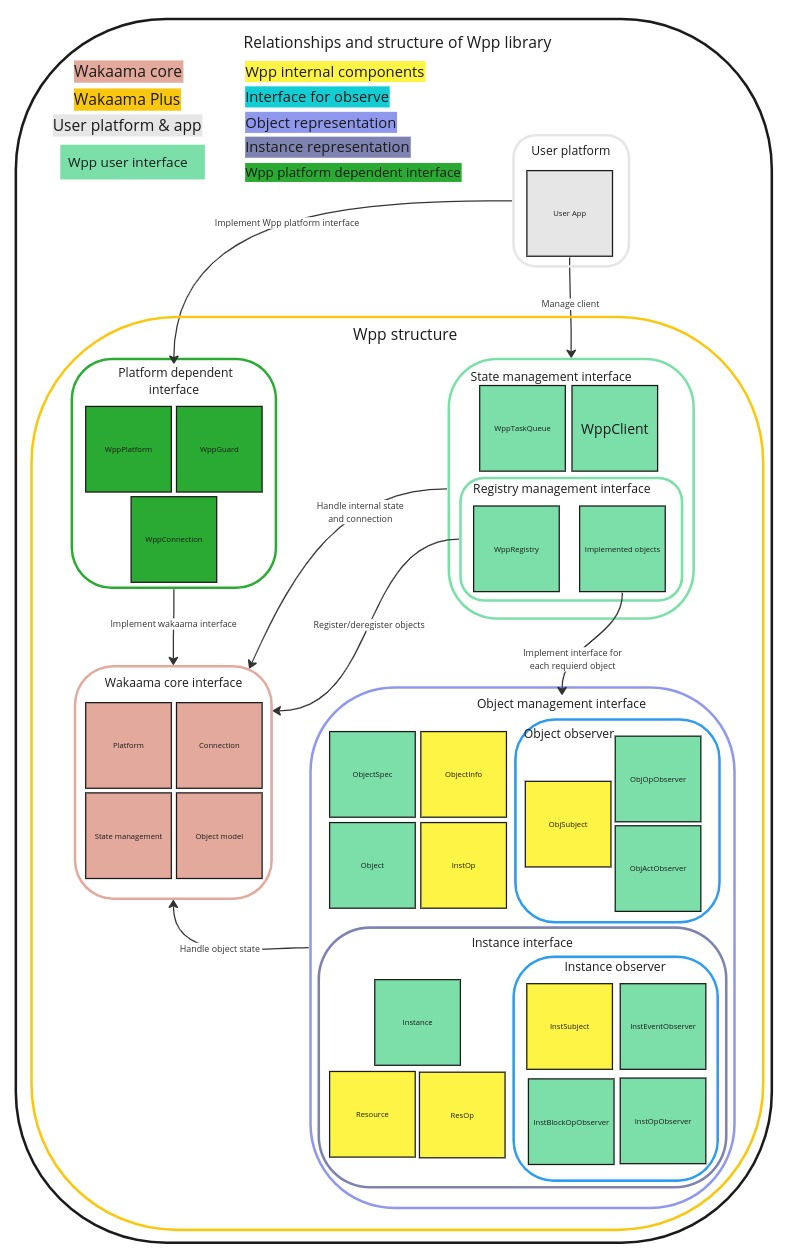
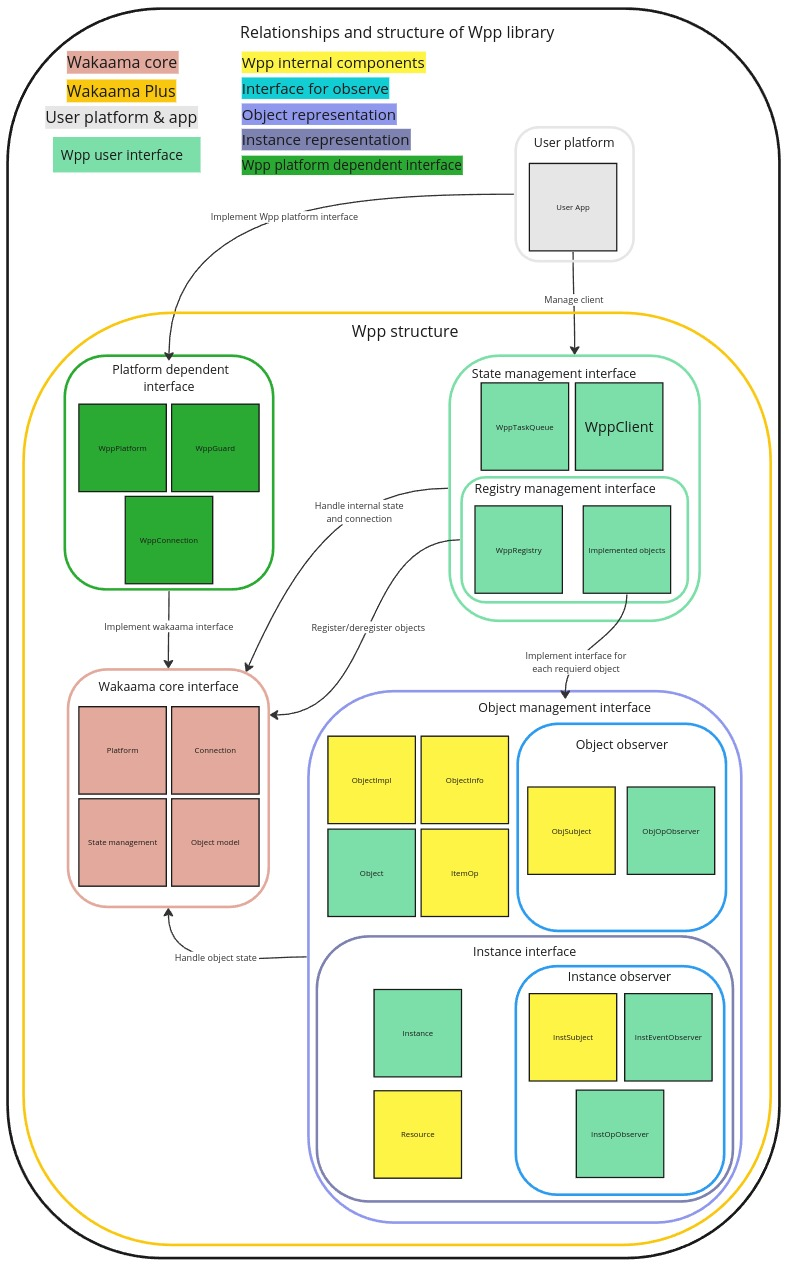
SN-1453 Updated architecture description, regenerated schemes

Changed region(s): [[0.0, 0.0, 1.0, 1.0], [0.4269, 0.4643, 0.4879, 0.5262], [0.305, 0.4952, 0.3355, 0.5262]]

diff --git a/docs/description/architecture.md b/docs/description/architecture.md
@@ -26,7 +26,7 @@ Since **Wpp** is built upon the [**Wakaama**](https://github.com/eclipse/wakaama
 
 1. **State Management (wpp::WppClient)**: This component is responsible for the initialization of the [**Wakaama**](https://github.com/eclipse/wakaama) core, processing protocol states, managing server and object registrations.
    
-2. **Object Model (wpp::Object wpp::ObjectSpec wpp::Instance wpp::Resource)**: This component is at the heart of **Wpp's** architecture. It defines the representation of objects at the **Wpp** level, their structure, general functionality, and sets the interface for interaction with instances and resources of the object, updating [**Wakaama**](https://github.com/eclipse/wakaama) about resource changes made by the user.
+2. **Object Model (wpp::Object wpp::ObjectImpl wpp::Instance wpp::Resource)**: This component is at the heart of **Wpp's** architecture. It defines the representation of objects at the **Wpp** level, their structure, general functionality, and sets the interface for interaction with instances and resources of the object, updating [**Wakaama**](https://github.com/eclipse/wakaama) about resource changes made by the user.
 
 3. **Object Registry (wpp::WppRegistry)**: A crucial component that functions as a registry for available LwM2M objects. It manages the creation and initialization of objects and allows the user to create Instances and manage their resources.
 
@@ -50,7 +50,7 @@ The main interface of the library consists of two main parts:
 - **Object registry management interface.** Which is used by the user to initialize the client, gain access to the object register, and manage objects. It consists from the next interfaces:
   - **State management interface.** Used by the user to initialize the client, get its state, access to registry, and manage registration. It consists from **wpp::WppClient** class which is implemented as singleton, and it is the main entry point through which interaction with the client takes place.
   - **Registry management interface.** Used by the user to gain access to the objects in the registry, register build-in objects, and get their state. It consists from **wpp::WppRegistry** class which is part of **wpp::WppClient**.
-  - **Object management interface.** Used by the user to gain access to the objects state, instances, objects business logic, and internal data. It consists from **wpp::Object**, **wpp::ObjectSpec**, **wpp::Instance** classes, access to **wpp::Object** can be retreived through **wpp::WppRegistry** class.
+  - **Object management interface.** Used by the user to gain access to the objects state, instances, objects business logic, and internal data. It consists from **wpp::Object**, **wpp::ObjectImpl**, **wpp::Instance** classes, access to **wpp::Object** can be retreived through **wpp::WppRegistry** class.
 - **Platform dependent interface.** It is used by the **Wpp** and must be implemented by the user or platform. It includes an interface
 for establishing connection, data transfer, and platform-dependent functionality like: get time, print logs, resource access guard. It consists from the next classes: **wpp::WppConnection**, **wpp::WppPlatform**, **wpp::WppGuard**.
 
@@ -63,7 +63,7 @@ To create a client, the user must call the **wpp::WppClient::create()** method, 
 
 Synchronization of access to the client is provided by the ownership mechanism, the client can be owned by only one program subject at a time, for this purpose a pair of methods **wpp::WppClient::takeOwnership()** and **wpp::WppClient::giveOwnership()** are used. Any actions with the client can be performed only after the **wpp::WppClient::takeOwnership()** method returns a valid object. After completing the manipulations with the client, the owner **must** return control over the client by calling the **wpp::WppClient::giveOwnership()** method. **wpp::WppClient** has two types of methods to take ownership **wpp::WppClient::takeOwnership()** and **wpp::WppClient::takeOwnershipBlocking()**, the first method works without any blocking, if the client is already owned, it returns an empty pointer, but **wpp::WppClient::takeOwnershipBlocking()** works differently, if the client is owned, it blocks its call until the client is released after which takes ownership of the client and returns a valid object.
 
-The second important part of **wpp::WppClient** is **wpp::WppClient::loop()** method for state processing, which when called performs three main tasks: processing packets received from the server, processing tasks from **wpp::WppTaskQueue**, handling the internal state of the [**Wakaama**](https://github.com/eclipse/wakaama) library. After completion, the **wpp::WppClient::loop()** method returns the maximum time in seconds after which the user must call this method the next time. But if after calling **wpp::WppClient::loop()** the user creates a task **wpp::WppTaskQueue** which must be called earlier than the next call to the method **wpp::WppClient::loop()** , then in this case, the **wpp::WppClient::loop()** method must be executed earlier than scheduled for the timely execution of the user request. It should be noted that the time returned after calling **wpp::WppClient::loop()** is the maximum amount of time after which this method should be executed, while the minimum threshold is not set. Therefore, the user can call this method even without delays between calls. It should also be noted that the next call is timed in seconds, so there is no need to call **wpp::WppClient::loop()** more often than once per second, although this is acceptable. It is worth noting that the **wpp::WppClient::loop()** method can be called only after the user takes ownership of **wpp::WppClient**.
+The second important part of **wpp::WppClient** is **wpp::WppClient::loop()** method for state processing, which when called performs three main tasks: processing packets received from the server, processing tasks from **wpp::WppTaskQueue**, handling the internal state of the [**Wakaama**](https://github.com/eclipse/wakaama) library. After completion, the **wpp::WppClient::loop()** method returns the maximum time in seconds after which the user must call this method the next time. But if after calling **wpp::WppClient::loop()** the user creates a task **wpp::WppTaskQueue** which must be called earlier than the next call of the method **wpp::WppClient::loop()** , then in this case, the **wpp::WppClient::loop()** method must be executed earlier than scheduled for the timely execution of the user request. It should be noted that the time returned after calling **wpp::WppClient::loop()** is the maximum amount of time after which this method should be executed, while the minimum threshold is not set. Therefore, the user can call this method even without delays between calls. It should also be noted that the next call is timed in seconds, so there is no need to call **wpp::WppClient::loop()** more often than once per second, although this is acceptable. It is worth noting that the **wpp::WppClient::loop()** method can be called only after the user takes ownership of **wpp::WppClient**.
 
 To access the registry, the client has a method **wpp::WppClient::registry()** that returns a registry object. Other methods and their purpose are described in the [Code](@ref code_tag) section at the following link **wpp::WppClient**.
 
@@ -73,12 +73,12 @@ The **Registry management** interface consists of one class **wpp::WppRegistry**
 
 ### Object Management {#arch_object_management}
 
-The **Object Management** interface consists of four classes **wpp::Object**, **wpp::ObjectSpec**, **wpp::Instance**, **wpp::Resource**, but the user can interact with the interfaces of only three **wpp::Object**, **wpp::ObjectSpec**, **wpp::Instance**. The above classes represent the LwM2M data model of the object, which is described in the documentation [**7.1. Resource Model**](https://openmobilealliance.org/release/LightweightM2M/V1_1_1-20190617-A/OMA-TS-LightweightM2M_Core-V1_1_1-20190617-A.pdf). The general hierarchy is as follows: **LwM2M** has a registry with a description of each object, its resources and business logic [**Object and Resource Registry**](https://technical.openmobilealliance.org/OMNA/LwM2M/LwM2MRegistry.html), but this representation is only in the form of text, not structure and code, therefore **Wpp** has its own representation of the registry in the form of the **wpp::WppRegistry** class, which stores instances of the data model that represents **LwM2M** objects. The mentioned data model contains **wpp::Object**, each object is a container for instances of its type **wpp::Instance**, each instance stores data specific to a certain object, these data are called resources **wpp::Resource**, resources are structures that display fields and object values according to the **LwM2M** description.
+The **Object Management** interface consists of four classes **wpp::Object**, **wpp::ObjectImpl**, **wpp::Instance**, **wpp::Resource**, but the user can interact with the interfaces of only two **wpp::Object**, **wpp::Instance**. The above classes represent the LwM2M data model of the object, which is described in the documentation [**7.1. Resource Model**](https://openmobilealliance.org/release/LightweightM2M/V1_1_1-20190617-A/OMA-TS-LightweightM2M_Core-V1_1_1-20190617-A.pdf). The general hierarchy is as follows: **LwM2M** has a registry with a description of each object, its resources and business logic [**Object and Resource Registry**](https://technical.openmobilealliance.org/OMNA/LwM2M/LwM2MRegistry.html), but this representation is only in the form of text, not structure and code, therefore **Wpp** has its own representation of the registry in the form of the **wpp::WppRegistry** class, which stores instances of the data model that represents **LwM2M** objects. The mentioned data model contains **wpp::Object**, each object is a container for instances of its type **wpp::Instance**, each instance stores data specific to a certain object, these data are called resources **wpp::Resource**, resources are structures that display fields and object values according to the **LwM2M** description.
 
 For a better understanding of the structure, it is worth describing each component separately:
-1. **wpp::Object** is at the top level and defines the interface/behavior for LwM2M objects. Its main task is to manage instances (**wpp::Instance**) of the object and process requests from the server with subsequent transfer of these requests to the corresponding implementation of the object. In fact, **wpp::Object** is a container for instances of the **wpp::Instance** class, it has the following methods to manage instances: **wpp::Object::createInstance()** to create a new instance (class instance **wpp::Instance**) by its **ID**, **wpp::Object::removeInstance()** to remove an instance by its **ID**, **wpp::Object::instance()** to get the corresponding instance by its **ID**. **wpp::Object** also has a **wpp::Object::restore()** method that allows you to restore the initial state of the object, this method generates an event to the user, and the part responsible for servicing the corresponding object on the user's side, decides what initial state the object should have. A detailed description of all other methods can be found at the following link **wpp::Object**. Here it is worth telling how the user knows about the events that happen to the object, because in addition to the recovery event, there are others. Each instance of the **wpp::Object** class stored in the **wpp::WppRegistry** has a built-in monitoring mechanism via the **wpp::ObjSubject** class (**wpp::Object** inherits from **wpp::ObjSubject**), whereby **wpp::Object** receives the following methods **wpp::ObjSubject::opSubscribe()** and **wpp::ObjSubject::actSubscribe()**, these methods are used by the user to observe an object. **wpp::Object** has two types of events: an action request (used in the **wpp::Object::restore()** method), and an operation notification from the server (**wpp::InstOp::TYPE**). For example, if the server wants to create an object instance (**wpp::Instance**), then during this operation, if the user is subscribed to it, an event will be generated that will be sent to the user's observer. Since **wpp::Object** has two types of events, accordingly, the user has two types of observers **wpp::ObjActObserver** and **wpp::ObjOpObserver**, which are interfaces with a set of methods that must be implemented by the user. Each method corresponds to one of the events.
-2. **wpp::ObjectSpec** is a template class that is emulated and implements the required interface of the **wpp::Object** class. By itself, objects of the class **wpp::Object** cannot be created because it is an interface and it does not have all the necessary information about the type of instance it will store. **wpp::ObjectSpec** fully corresponds to the description of **wpp::Object**, the only thing that distinguishes it is the **wpp::Object::createInstance()** method implemented from the **wpp::Object** interface, and two additional methods that allows to create and interact with final implementations of the **wpp::Instance** interface. It should be clarified here that **wpp::Object** and **wpp::Instance** are only interfaces that encapsulate a similar part of the code for all objects and provide the user with a unified access interface, but are not the final implementation of the object or its instance, because in order to be the final implementation of an object, needs to know the exact type of the instance, and for different objects, instances have different implementations and, accordingly, type. That is why there is **wpp::ObjectSpec**, which is a template class, thanks to which it is possible to create instances of a specialized type, and is the final implementation of the **wpp::Object** interface. When **wpp::WppRegistry** initializes its list of objects, it creates instances of exactly **wpp::ObjectSpec** to which it transfers the type of the final implementation of the instance, that is, the type of the class that implements **wpp::Instance**. So we have two interfaces for interacting with the object: generalized (**wpp::Object**) and specialized (**wpp::ObjectSpec**). The specialized interface allows to get an instance of the class that implements **wpp::Instance**, thanks to which possible to get access to special methods of the implementation itself. For more information follow the link **wpp::ObjectSpec**.
-3. **wpp::Instance** this class defines the interface and common behavior for all instances of the LwM2M object. Inheritors of this class are created in **wpp::ObjectSpec**, the type of the inheritor **wpp::Instance** is specified as a template parameter for **wpp::ObjectSpec**. **wpp::Instance** is a container for object resource data [**7.1. Resource Model**](https://openmobilealliance.org/release/LightweightM2M/V1_1_1-20190617-A/OMA-TS-LightweightM2M_Core-V1_1_1-20190617-A.pdf). As it was already indicated, **wpp::Instance** contains a list of all resources (instances of the **wpp::Resource** class) for a specific **LwM2M** object, these resources are its main value because it is thanks to the data which are stored in **wpp::Resource**, the server can control the client and see its state. **wpp::Instance** is the only place to store data for an instance of an object, therefore, accordingly, it has two interfaces: for processing requests from the server and the second for processing requests from the user. Only the user interface will be considered, since it will be used when interacting with **Wpp**. So, the user interface can be divided into two parts, the first part allows to get information about the instance (to which object it belongs, its ID), the second part is methods that allows to set, get and delete the value of a specific resource. To access these resources, the approach of get/set methods is used, in which the ID of the resource to be read or set is transferred. **wpp::Instance** uses two approaches to get and set resource values, with and without copying. Consider in more detail, if you use the **wpp::Instance::set()** or **wpp::Instance::get()** method, an additional copy of the data will be created during the execution of these methods, if it **wpp::Instance::set()**, then one copy will be stored on the user side and another in **wpp::Resource**, the same is the case with **wpp::Instance::get()**. If you use the **wpp::Instance::setMove()** or **wpp::Instance::getPtr()** method, copies will not be created when calling **wpp::Instance::setMove()** user data is moved to **wpp::Resource** without creating a copy, **wpp::Instance::getPtr()** returns a pointer to the same data stored in **wpp::Resource**, but when with this approach, the user cannot change the data itself, because a pointer to constant data is returned. There are two types of resources **SINGLE** and **MULTIPLE**, these types indicate whether the resource can store only one value or more (actually an array of values). If **wpp::Resource** is **MULTIPLE**, **wpp::Instance::clear()** and **wpp::Instance::remove()** methods can be useful, because they allow you to clear an array of values entirely **wpp::Instance::clear()**, or to remove a specific value **wpp::Instance::remove()**. It should be noted here that the **wpp::Instance::clear()** method is dangerous because it violates an important rule, **every declared wpp::Resource in the wpp::Object must have at least one value throughout lifetime regardless of whether the resource is SINGLE or MULTIPLE**, so after calling **wpp::Instance::clear()** the user must set a new value for the resource. The interface and features for **wpp::Instance** have been described, now it is worth describing the method of notifying the user about events and their types. **wpp::Instance** there are two types of events: notifications about operations from the server side (**ResOp::TYPE type**) and event notifications are inherent in the implementation of **wpp::Instance**, their presence and purpose is determined by the implementation itself. The observation approach is the same as for **wpp::Object**, there is a class **wpp::InstSubject** from which **wpp::Instance** is inherited, through inheritance **wpp::Instance** gets two methods that allow the user to subscribe to server operations **wpp::InstSubject::opSubscribe()** and to custom events **wpp::InstSubject::eventSubscribe()**. For observation, the user must implement one of the observer interfaces, **wpp::InstOpObserver** for observing server operations, **wpp::InstEventObserver** for observing custom events **wpp::Instance**.
+1. **wpp::Object** is at the top level and defines the interface/behavior for LwM2M objects. Its main task is to manage instances (**wpp::Instance**) of the object and process requests from the server with subsequent transfer of these requests to the corresponding implementation of the object. In fact, **wpp::Object** is a container for instances of the **wpp::Instance** class, it has the following methods to manage instances: **wpp::Object::createInstance()** to create a new instance (class instance **wpp::Instance**) by its **ID**, **wpp::Object::remove()** to remove an instance by its **ID**, **wpp::Object::instance()** to get the corresponding instance by its **ID**. Each instance of the **wpp::Object** class stored in the **wpp::WppRegistry** has a built-in monitoring mechanism via the **wpp::ObjSubject** class (**wpp::Object** inherits from **wpp::ObjSubject**), whereby **wpp::Object** receives the following method **wpp::ObjSubject::opSubscribe()**, this method is used by the user to observe an object. For example, if the server wants to create an object instance (**wpp::Instance**), then during this operation, if the user is subscribed to it, an event will be generated that will be sent to the user's observer. Since The user has **wpp::ObjOpObserver** observer, which is interfaces with a set of methods that must be implemented by the user. Each method corresponds to one of the events.
+2. **wpp::ObjectImpl** is a template class that is implements the required interface of the **wpp::Object** class. By itself, objects of the class **wpp::Object** cannot be created because it is an interface and it does not have all the necessary information about the type of instance it will store. **wpp::ObjectImpl** fully corresponds to the description of **wpp::Object**, the only thing that distinguishes it is the **wpp::Object::createInstance()** method implemented from the **wpp::Object** interface. It should be clarified here that **wpp::Object** and **wpp::Instance** are only interfaces that encapsulate a similar part of the code for all objects and provide the user with a unified access interface, but are not the final implementation of the object or its instance, because in order to be the final implementation of an object, needs to know the exact type of the **wpp::Instance**, and for different **wpp::Object**, **wpp::Instance** have different implementations and, accordingly, type. That is why there is **wpp::ObjectImpl**, which is a template class, thanks to which it is possible to create instances of a specialized type, and is the final implementation of the **wpp::Object** interface. When **wpp::WppRegistry** initializes its list of objects, it creates instances of exactly **wpp::ObjectImpl** to which it transfers the type of the final implementation of the instance, that is, the type of the class that implements **wpp::Instance**. For more information follow the link **wpp::ObjectImpl**.
+3. **wpp::Instance** this class defines the interface and common behavior for all instances of the LwM2M object. Inheritors of this class are created in **wpp::ObjectImpl**, the type of the inheritor **wpp::Instance** is specified as a template parameter for **wpp::ObjectImpl**. **wpp::Instance** is a container for object resource data [**7.1. Resource Model**](https://openmobilealliance.org/release/LightweightM2M/V1_1_1-20190617-A/OMA-TS-LightweightM2M_Core-V1_1_1-20190617-A.pdf). As it was already indicated, **wpp::Instance** contains a list of all resources (instances of the **wpp::Resource** class) for a specific **LwM2M** object, these resources are its main value because it is thanks to the data which are stored in **wpp::Resource**, the server can control the client and see its state. **wpp::Instance** is the only place to store data for an instance of an object, therefore, accordingly, it has two interfaces: for processing requests from the server and the second for processing requests from the user. Only the user interface will be considered, since it will be used when interacting with **Wpp**. So, the user interface can be divided into two parts, the first part allows to get information about the instance (to which object belongs, its ID), the second part is methods that allows to set, get and delete the value of a specific resource. To access these resources, the approach of get/set methods is used, in which the ID of the resource to be get or set is transferred. **wpp::Instance** uses two approaches to set resource values, with and without copying **wpp::Instance::set(..., const T &value)**. If **wpp::Instance::set(..., const T &value)**, then one copy will be stored on the user side and another in **wpp::Resource**. If **wpp::Instance::set(..., T &&value)** method, copies will not be created, data is moved to **wpp::Resource** without creating a copy. There are two types of resources **SINGLE** and **MULTIPLE**, these types indicate whether the resource can store only one value or more (actually an array of values). If **wpp::Resource** is **MULTIPLE**, **wpp::Instance::clearRes()** and **wpp::Instance::removeRes()** methods can be useful, because they allow you to clear an array of values entirely **wpp::Instance::clearRes()**, or to remove a specific value **wpp::Instance::removeRes()**. The interface and features for **wpp::Instance** have been described, now it is worth describing the method of notifying the user about events and their types. **wpp::Instance** there are two types of events: notifications about operations from the server side (**ItemOp::TYPE type**) and event notifications are inherent in the implementation of **wpp::Instance**, their presence and purpose is determined by the implementation itself. The observation approach is the same as for **wpp::Object**, there is a class **wpp::InstSubject** from which **wpp::Instance** is inherited, through inheritance **wpp::Instance** gets two methods that allow the user to subscribe to server operations **wpp::InstSubject::opSubscribe()** and to custom events **wpp::InstSubject::eventSubscribe()**. For observation, the user must implement one of the observer interfaces, **wpp::InstOpObserver** for observing server operations, **wpp::InstEventObserver** for observing custom events **wpp::Instance**.
 
 \image html images/wpp_relationship_and_structure.jpg width=650px
 
@@ -94,12 +94,11 @@ The **Platform Dependencies** interface consists of three classes **wpp::WppConn
 **Wpp's** architecture allows for easy integration into new environments and the possibility to implementation **Platform dependent interface** as per environmental requirements. This flexibility is attributed to the absence of external dependencies, as **Wpp** defines all input and output interfaces, and the environment implements them. For integration to new environment user should implement the next interfaces: **wpp::WppConnection**, **wpp::WppPlatform**, **wpp::WppGuard**. Example can be found in the [**platform**](../../examples/platform) folder.
 
 ### Object Maker Tools {#arch_object_maker_tools}
-As mentioned in the section [Registry Management](@ref arch_registry_management), for **Wpp** a complex of utilities [**object_maker**](../../utils/object_maker) has been developed for generation, integration, deletion, update and initialization of objects in the form of source code. [**object_maker**](../../utils/object_maker) is not a critically important part of **Wpp** without which the creation of new objects is impossible, it is more of an auxiliary character to simplify tasks related to the modification of the object registry. Let's consider in more detail the capabilities of [**object_maker**](../../utils/object_maker):
+As mentioned in the section [Registry Management](@ref arch_registry_management), for **Wpp** a complex of utilities [**object_maker**](../../utils/object_maker) has been developed for generation, integration, deletion and update of objects in the form of source code. [**object_maker**](../../utils/object_maker) is not a critically important part of **Wpp** without which the creation of new objects is impossible, it is more of an auxiliary character to simplify tasks related to the modification of the object registry. Let's consider in more detail the capabilities of [**object_maker**](../../utils/object_maker):
 1. Object generation. To generate a utility object, you must have its description in the form of a **.xml** file (more details on the format can be found [here](https://github.com/OpenMobileAlliance/lwm2m-registry?tab=readme-ov-file# 3-create-a-new-object)), the file can be presented locally or as a URL link. As a result of generation, a folder is created with the source code for the object that needs to be integrated into **Wpp**. The created folder contains 5 files with code and **object_metadata.json** with metadata that is necessary in the other utils.
 2. Integration of the object. To integrate the utility must know the path to the folder with the description of the object. As a result of the integration, the folder is copied to [**objects**](../../wpp/registry/objects) and the object is added to **wpp::WppRegistry**, after which the user can use the corresponding object in their code.
 3. Deleting the object. To delete the utility must obtain the path to the folder of the corresponding object in [**objects**](../../wpp/registry/objects), after which the specified object will be deleted from **Wpp**.
 4. Updating the object. To update the utility must receive two parameters: the path to the **.xml** file with the updated description of the object and the path to the folder of the corresponding object in [**objects**](../../wpp/registry/objects). The main task of this utility is to transfer the implementation from the old version of the object to the new one. It is not recommended to be used without a critical need and understanding of the consequences.
-5. Creation of initialization for the object. To initialize the utility, two parameters must be the path to the **.json** file with a description of the initialization parameters and a list of objects for which initialization needs to be created (this list must contain the IDs of those objects that are present in the **.json** file). As a result of the work, a folder containing three source code files is created. This utility is needed to create initialization of object instances and resources by describing the properties in the **.json** file.
 
 ### Summary {#arch_summary}
 The architecture of **WakaamaPlus (Wpp)** is a well-structured framework that provides a robust platform for the development and implementation of LwM2M client applications. It maintains a balance between high-level functionality and control, and is designed to be flexible and adaptable to various user and environmental needs.
